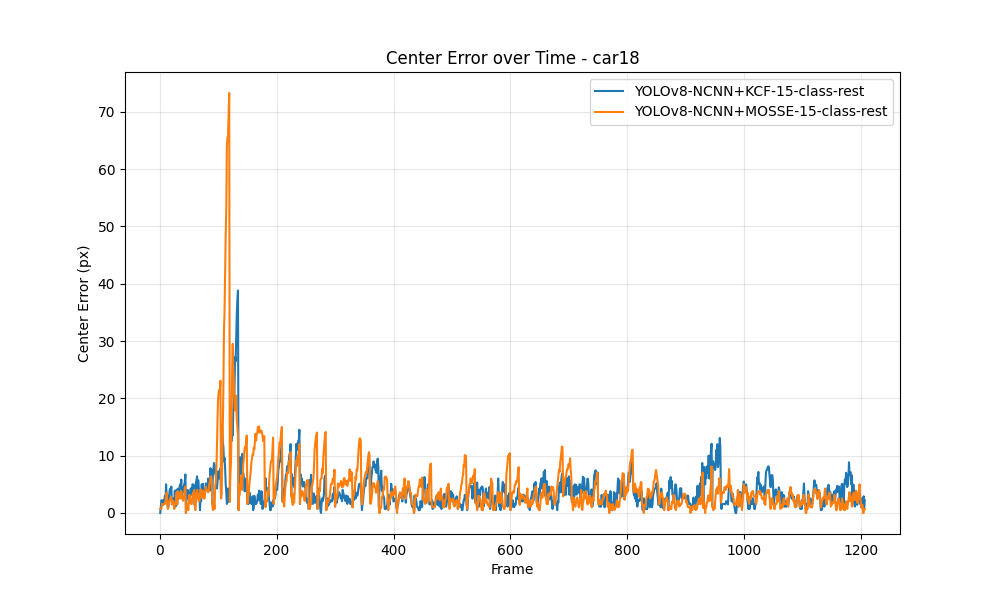
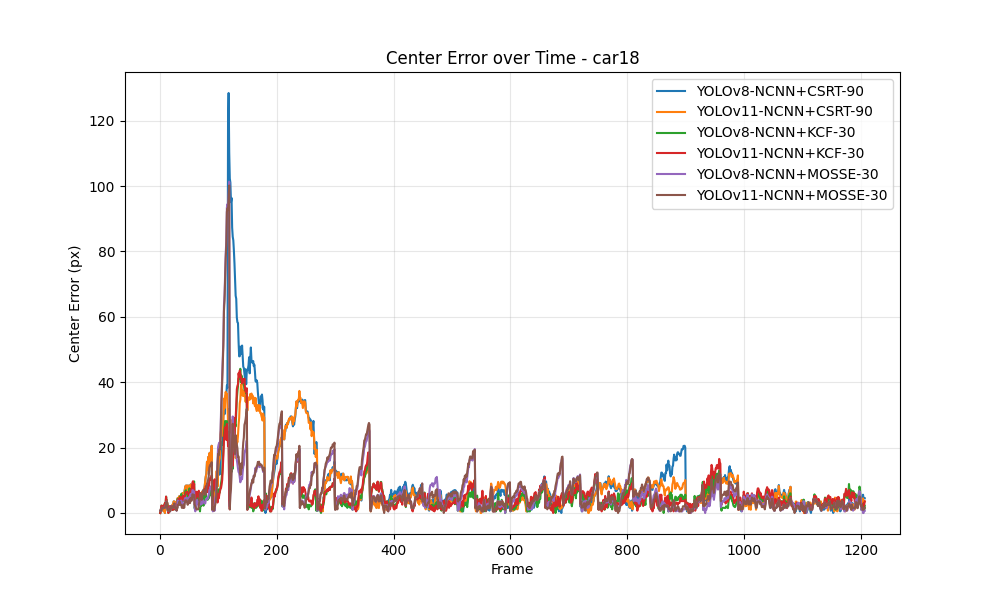
csrt90 kcf, mosse 30 unrestricted results

diff --git a/src/tracking/benchmark.py b/src/tracking/benchmark.py
@@ -451,17 +451,17 @@ if __name__ == "__main__":
     os.makedirs(OUTPUT_DIR, exist_ok=True)
 
     # Define which trackers and sequences to run
-    trackers_to_test = ["YOLOv11-NCNN+CSRT", "YOLOv11-NCNN+MOSSE", "YOLOv11-NCNN+KCF", "YOLOv8-NCNN+CSRT", "YOLOv8-NCNN+MOSSE", "YOLOv8-NCNN+KCF"]
+    trackers_to_test = ["YOLOv8-NCNN+CSRT-90", "YOLOv11-NCNN+CSRT-90", "YOLOv8-NCNN+KCF-30", "YOLOv11-NCNN+KCF-30",
+                        "YOLOv8-NCNN+MOSSE-30", "YOLOv11-NCNN+MOSSE-30"]
     #                     "BOOSTING", "MEDIANFLOW", "MIL", "TLD", "CSRT", "KCF", "MOSSE", "YOLOv11-Byte", "YOLOv8-Byte", 
     #                     "YOLOv11-BoT", "YOLOv8-BoT"]
     # trackers_to_test = ["CSRT", "KCF", "MOSSE", "MIL", "MEDIANFLOW", "BOOSTING", "TLD"]
     # trackers_to_test = ["YOLOv8-NCNN-BoT", "YOLOv8-NCNN-Byte", "YOLOv11-NCNN-Byte", "YOLOv11-NCNN-BoT"] 
     # trackers_to_test = ["BOOSTING", "MEDIANFLOW", "MIL", "TLD"]
     
-    sequences_to_test = ["bike1", "bike3", "boat1", "boat2", "boat3", "car1", "car2", "car3", "car4"]
-    # sequences_to_test = ["car5", "car6", "car7", 
-    #                      "car8", "car16", "car17", "car18", "person2", "person3", "truck1", "truck2", "truck3", 
-    #                      "wakeboard1", "wakeboard2", "wakeboard3"]
+    # sequences_to_test = ["bike1", "bike3", "boat1", "boat2", "boat3", "car1", "car2", "car3", "car4",
+    sequences_to_test = ["car5", "car6", "car7", "car8", "car16", "car17", "car18", "person2", "person3", 
+                         "truck1", "truck2", "truck3", "wakeboard1", "wakeboard2", "wakeboard3"]
     
     all_frame_results = []
     summary_results = []
